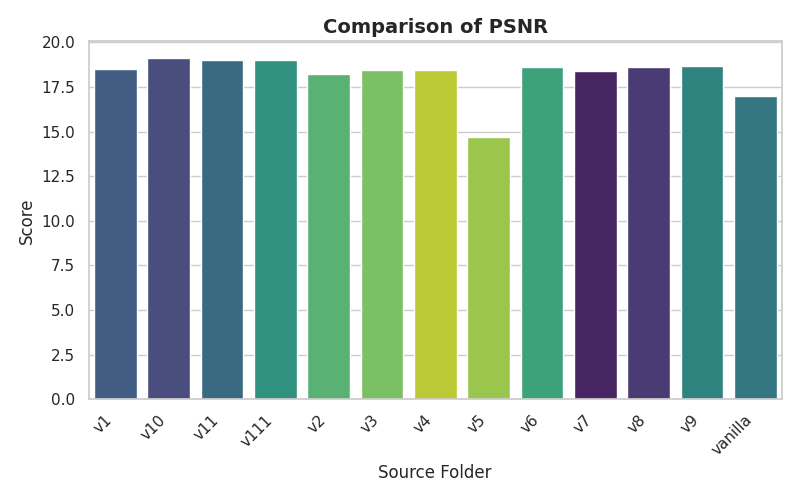
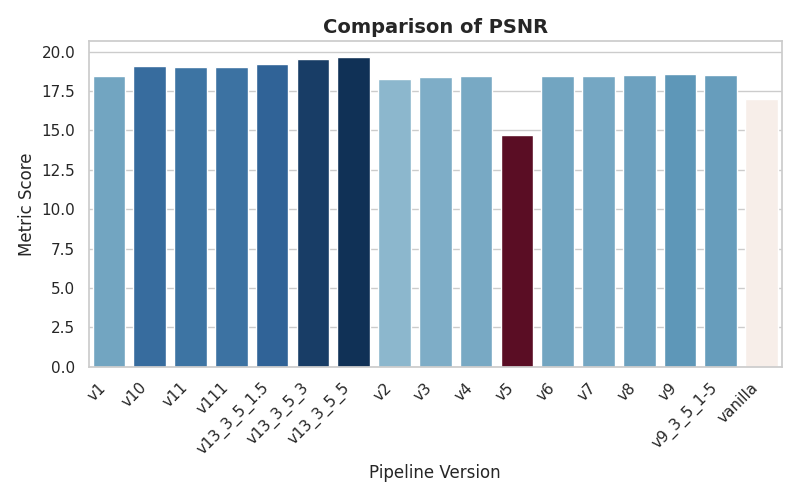
add graphs and some results

diff --git a/graphs/metric_graphs.py b/graphs/metric_graphs.py
@@ -3,9 +3,15 @@ import os
 import pandas as pd
 import matplotlib.pyplot as plt
 import seaborn as sns
-import matplotlib.colormaps as cm
+from matplotlib import colormaps as cm
 import argparse
-from ..metrics import COCOInpaintingMetricsScorer
+import sys
+
+current_dir = os.path.dirname(os.path.abspath(__file__))
+root_dir = os.path.dirname(current_dir)
+sys.path.append(root_dir)
+
+from metrics import COCOInpaintingMetricsScorer
 
 
 def create_graphs(file_paths):
@@ -49,9 +55,9 @@ def create_graphs(file_paths):
         metric_df = df[df['Metric'] == metric]
         norm = plt.Normalize(metric_df['Score'].min(), metric_df['Score'].max())
         if COCOInpaintingMetricsScorer.METRIC_BEST_HIGHEST[metric]:
-            colors = [cm.get_cmap('RdBu')(norm(value)) for value in metric_df['Values']]
+            colors = [cm.get_cmap('RdBu')(norm(value)) for value in metric_df['Score']]
         else:
-            colors = [cm.get_cmap('RdBu_r')(norm(value)) for value in metric_df['Values']]
+            colors = [cm.get_cmap('RdBu_r')(norm(value)) for value in metric_df['Score']]
 
         plt.figure(figsize=(8, 5))
         

diff --git a/metrics.py b/metrics.py
@@ -142,8 +142,12 @@ class COCOInpaintingMetricsScorer:
         except Exception as e:
             print(f'unexpected exception: {e} (continue anyway!)')
             return
-        real_image = Image.open(real_image_path).convert("RGB")
-        generated_image = Image.open(generated_image_path).convert("RGB")
+        try:
+            real_image = Image.open(real_image_path).convert("RGB")
+            generated_image = Image.open(generated_image_path).convert("RGB")
+        except:
+            print(f'no generated image in {generated_image_path}...')
+            return
 
         _, coverage = self.mask_generator(np.array(real_image), img_id)
         for i in range(0, 91, 5):
